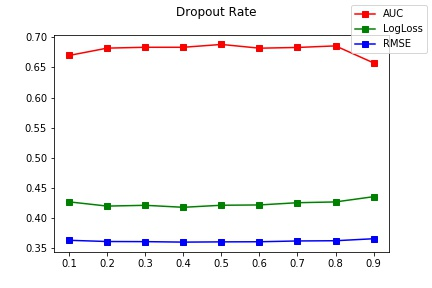
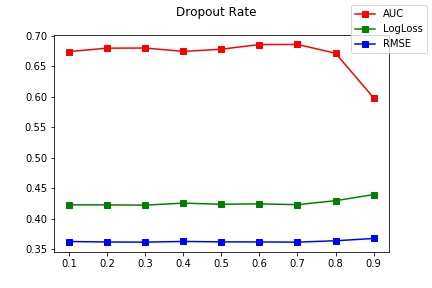
fixes

diff --git a/ws.py b/ws.py
@@ -23,10 +23,6 @@ dnn_activation_list = ["relu", "tanh", "sigmoid"]
 dnn_dropout_list = [0.9, 0.8, 0.7, 0.6, 0.5, 0.4, 0.3, 0.2, 0.1]
 dnn_hidden_units_list = [(100, 100), (200, 200), (300, 300), (400, 400), (500, 500), (600, 600), (700, 700), (800, 800)]
 
-# dnn_activation_list = ["relu", "tanh"]
-# dnn_dropout_list = [0.2, 0.1]
-# dnn_hidden_units_list = [(128, 128), (200, 200)]
-
 def process_criteo():
     
     if PROCESS:
@@ -143,7 +139,8 @@ def test_PNN_criteo(data, train, test):
     for dnn_activation in dnn_activation_list:
         print("\nTesting {dnn_activation}...".format(dnn_activation = dnn_activation))
         
-        model = PNN(dnn_feature_columns, dnn_activation = dnn_activation, task='binary')
+        # model = PNN(dnn_feature_columns, use_inner=False, use_outter=True, dnn_activation = dnn_activation, task='binary')
+        model = PNN(dnn_feature_columns, use_inner=True, use_outter=False, dnn_activation = dnn_activation, task='binary')
         model.compile("adam", "binary_crossentropy", metrics=['binary_crossentropy'], )
         model.fit(train_model_input, train[target_label].values, batch_size=256, epochs=10, verbose=0, validation_split=TEST_PROPORTION, )
         pred_y = model.predict(test_model_input, batch_size=256)
@@ -160,7 +157,8 @@ def test_PNN_criteo(data, train, test):
     for dnn_dropout in dnn_dropout_list:
         print("\nTesting {dnn_dropout}...".format(dnn_dropout = dnn_dropout))
         
-        model = PNN(dnn_feature_columns, dnn_dropout = dnn_dropout, task='binary')
+        # model = PNN(dnn_feature_columns, use_inner=False, use_outter=True, dnn_dropout = dnn_dropout, task='binary')
+        model = PNN(dnn_feature_columns, use_inner=True, use_outter=False, dnn_dropout = dnn_dropout, task='binary')
         model.compile("adam", "binary_crossentropy", metrics=['binary_crossentropy'], )
         model.fit(train_model_input, train[target_label].values, batch_size=256, epochs=10, verbose=0, validation_split=TEST_PROPORTION, )
         pred_y = model.predict(test_model_input, batch_size=256)
@@ -177,7 +175,8 @@ def test_PNN_criteo(data, train, test):
     for dnn_hidden_units in dnn_hidden_units_list:
         print("\nTesting {dnn_hidden_units}...".format(dnn_hidden_units = dnn_hidden_units))
         
-        model = PNN(dnn_feature_columns, dnn_hidden_units = dnn_hidden_units, task='binary')
+        # model = PNN(dnn_feature_columns, use_inner=False, use_outter=True, dnn_hidden_units = dnn_hidden_units, task='binary')
+        model = PNN(dnn_feature_columns, use_inner=True, use_outter=False, dnn_hidden_units = dnn_hidden_units, task='binary')
         model.compile("adam", "binary_crossentropy", metrics=['binary_crossentropy'], )
         model.fit(train_model_input, train[target_label].values, batch_size=256, epochs=10, verbose=0,validation_split=TEST_PROPORTION )
         pred_y = model.predict(test_model_input, batch_size=256)
@@ -191,6 +190,9 @@ def test_PNN_criteo(data, train, test):
         results_number_of_neurons["rmse"].append(rmse)
         
     if PLOT:
+        # create_plots("OPNN", "criteo", results_activation_function, "Activation Function", "activation_func", dnn_activation_list)
+        # create_plots("OPNN", "criteo", results_dropout, "Dropout Rate", "dropout", dnn_dropout_list)
+        # create_plots("OPNN", "criteo", results_number_of_neurons, "Number of Neurons per layer", "nr_neurons", dnn_hidden_units_list)
         create_plots("PNN", "criteo", results_activation_function, "Activation Function", "activation_func", dnn_activation_list)
         create_plots("PNN", "criteo", results_dropout, "Dropout Rate", "dropout", dnn_dropout_list)
         create_plots("PNN", "criteo", results_number_of_neurons, "Number of Neurons per layer", "nr_neurons", dnn_hidden_units_list)
@@ -395,7 +397,8 @@ def test_PNN_avazu(data,train,test):
     for dnn_activation in dnn_activation_list:
         print("\nTesting {dnn_activation}...".format(dnn_activation = dnn_activation))
         
-        model = PNN(dnn_feature_columns, dnn_activation = dnn_activation, task='binary')
+        # model = PNN(dnn_feature_columns, use_inner=False, use_outter=True, dnn_activation = dnn_activation, task='binary')
+        model = PNN(dnn_feature_columns, use_inner=True, use_outter=False, dnn_activation = dnn_activation, task='binary')
         model.compile("adam", "binary_crossentropy", metrics=['binary_crossentropy'], )
         model.fit(train_model_input, train[target_label].values, batch_size=256, epochs=10, verbose=0, validation_split=TEST_PROPORTION, )
         pred_y = model.predict(test_model_input, batch_size=256)
@@ -412,7 +415,8 @@ def test_PNN_avazu(data,train,test):
     for dnn_dropout in dnn_dropout_list:
         print("\nTesting {dnn_dropout}...".format(dnn_dropout = dnn_dropout))
         
-        model = PNN(dnn_feature_columns, dnn_dropout = dnn_dropout, task='binary')
+        # model = PNN(dnn_feature_columns, use_inner=False, use_outter=True, dnn_dropout = dnn_dropout, task='binary')
+        model = PNN(dnn_feature_columns, use_inner=True, use_outter=False, dnn_dropout = dnn_dropout, task='binary')
         model.compile("adam", "binary_crossentropy", metrics=['binary_crossentropy'], )
         model.fit(train_model_input, train[target_label].values, batch_size=256, epochs=10, verbose=0, validation_split=TEST_PROPORTION, )
         pred_y = model.predict(test_model_input, batch_size=256)
@@ -429,7 +433,8 @@ def test_PNN_avazu(data,train,test):
     for dnn_hidden_units in dnn_hidden_units_list:
         print("\nTesting {dnn_hidden_units}...".format(dnn_hidden_units = dnn_hidden_units))
         
-        model = PNN(dnn_feature_columns, dnn_hidden_units = dnn_hidden_units, task='binary')
+        # model = PNN(dnn_feature_columns, use_inner=False, use_outter=True, dnn_hidden_units = dnn_hidden_units, task='binary')
+        model = PNN(dnn_feature_columns, use_inner=True, use_outter=False, dnn_hidden_units = dnn_hidden_units, task='binary')
         model.compile("adam", "binary_crossentropy", metrics=['binary_crossentropy'], )
         model.fit(train_model_input, train[target_label].values, batch_size=256, epochs=10, verbose=0,validation_split=TEST_PROPORTION )
         pred_y = model.predict(test_model_input, batch_size=256)
@@ -443,6 +448,9 @@ def test_PNN_avazu(data,train,test):
         results_number_of_neurons["rmse"].append(rmse)
         
     if PLOT:
+        # create_plots("OPNN", "avazu", results_activation_function, "Activation Function", "activation_func", dnn_activation_list)
+        # create_plots("OPNN", "avazu", results_dropout, "Dropout Rate", "dropout", dnn_dropout_list)
+        # create_plots("OPNN", "avazu", results_number_of_neurons, "Number of Neurons per layer", "nr_neurons", dnn_hidden_units_list)
         create_plots("PNN", "avazu", results_activation_function, "Activation Function", "activation_func", dnn_activation_list)
         create_plots("PNN", "avazu", results_dropout, "Dropout Rate", "dropout", dnn_dropout_list)
         create_plots("PNN", "avazu", results_number_of_neurons, "Number of Neurons per layer", "nr_neurons", dnn_hidden_units_list)
@@ -527,9 +535,9 @@ def test_FNN_avazu(data,train,test):
         results_number_of_neurons["rmse"].append(rmse)
         
     if PLOT:
-        create_plots("PNN", "avazu", results_activation_function, "Activation Function", "activation_func", dnn_activation_list)
-        create_plots("PNN", "avazu", results_dropout, "Dropout Rate", "dropout", dnn_dropout_list)
-        create_plots("PNN", "avazu", results_number_of_neurons, "Number of Neurons per layer", "nr_neurons", dnn_hidden_units_list)
+        create_plots("FNN", "avazu", results_activation_function, "Activation Function", "activation_func", dnn_activation_list)
+        create_plots("FNN", "avazu", results_dropout, "Dropout Rate", "dropout", dnn_dropout_list)
+        create_plots("FNN", "avazu", results_number_of_neurons, "Number of Neurons per layer", "nr_neurons", dnn_hidden_units_list)
 
 
 def test_DFM_avazu(data,train,test):
@@ -634,13 +642,13 @@ if __name__ == "__main__":
     data_criteo, train_criteo, test_criteo = process_criteo()
     data_avazu, train_avazu, test_avazu = process_avazu()
 
-    # test_FNN_criteo(data_criteo,train_criteo,test_criteo)
-    # test_FNN_avazu(data_avazu,train_avazu,test_avazu)
+    test_FNN_criteo(data_criteo,train_criteo,test_criteo)
+    test_FNN_avazu(data_avazu,train_avazu,test_avazu)
     
     # test_PNN_criteo(data_criteo, train_criteo, test_criteo)
     # test_PNN_avazu(data_avazu,train_avazu,test_avazu)
     
-    test_DFM_criteo(data_criteo, train_criteo, test_criteo)
-    test_DFM_avazu(data_avazu,train_avazu,test_avazu)
+    # test_DFM_criteo(data_criteo, train_criteo, test_criteo)
+    # test_DFM_avazu(data_avazu,train_avazu,test_avazu)
         
     print("Program ended in {time} seconds.".format(time = round(time.time() - start_time, 2)))
